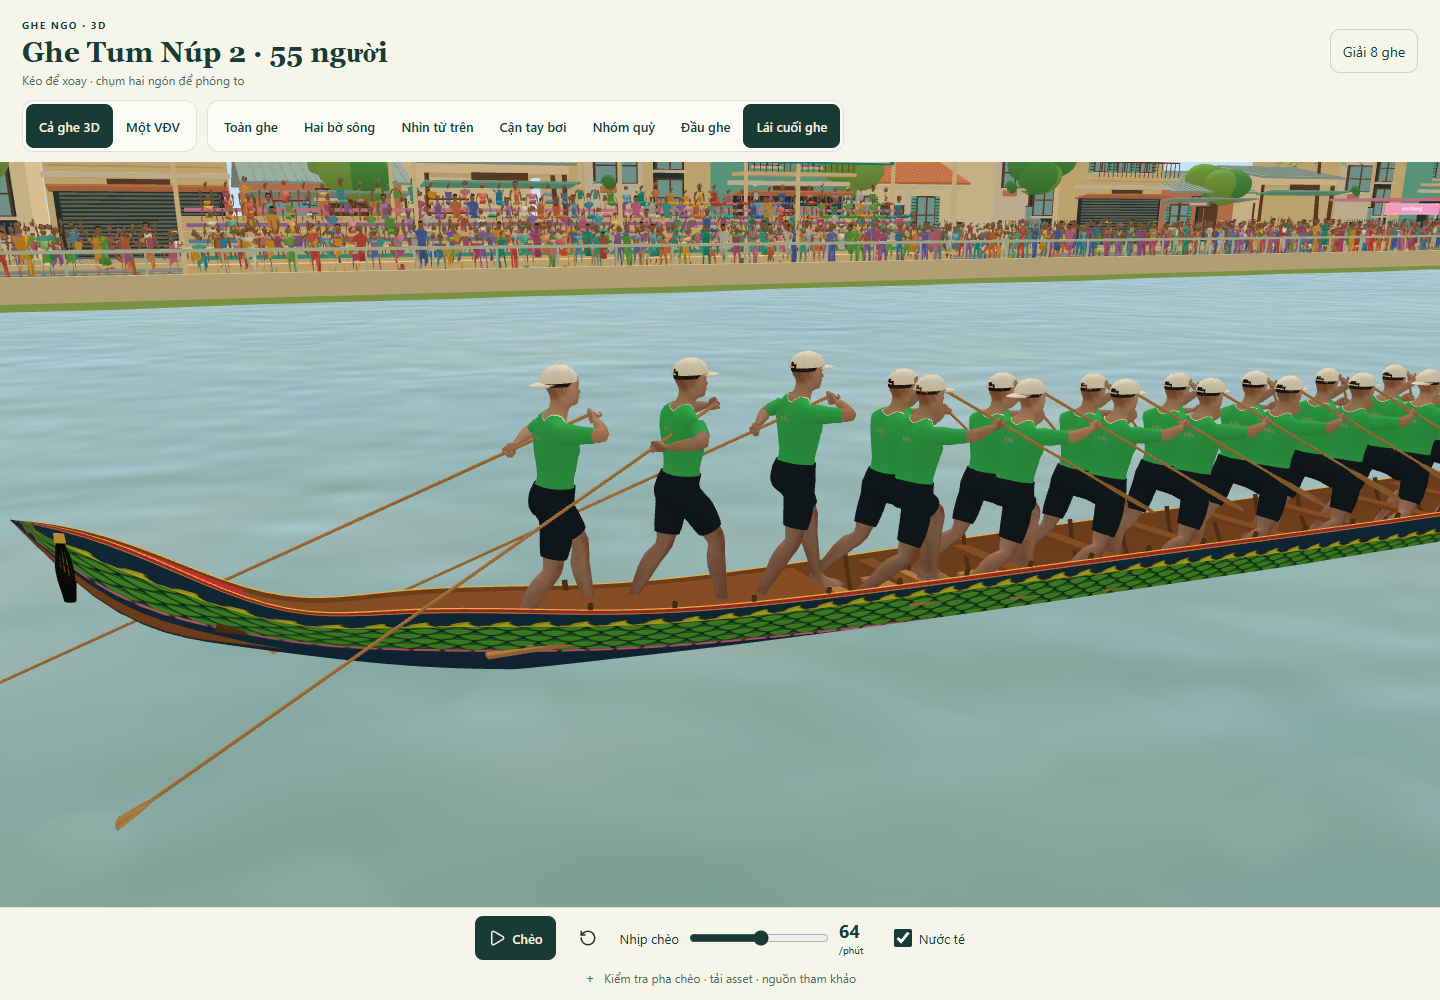
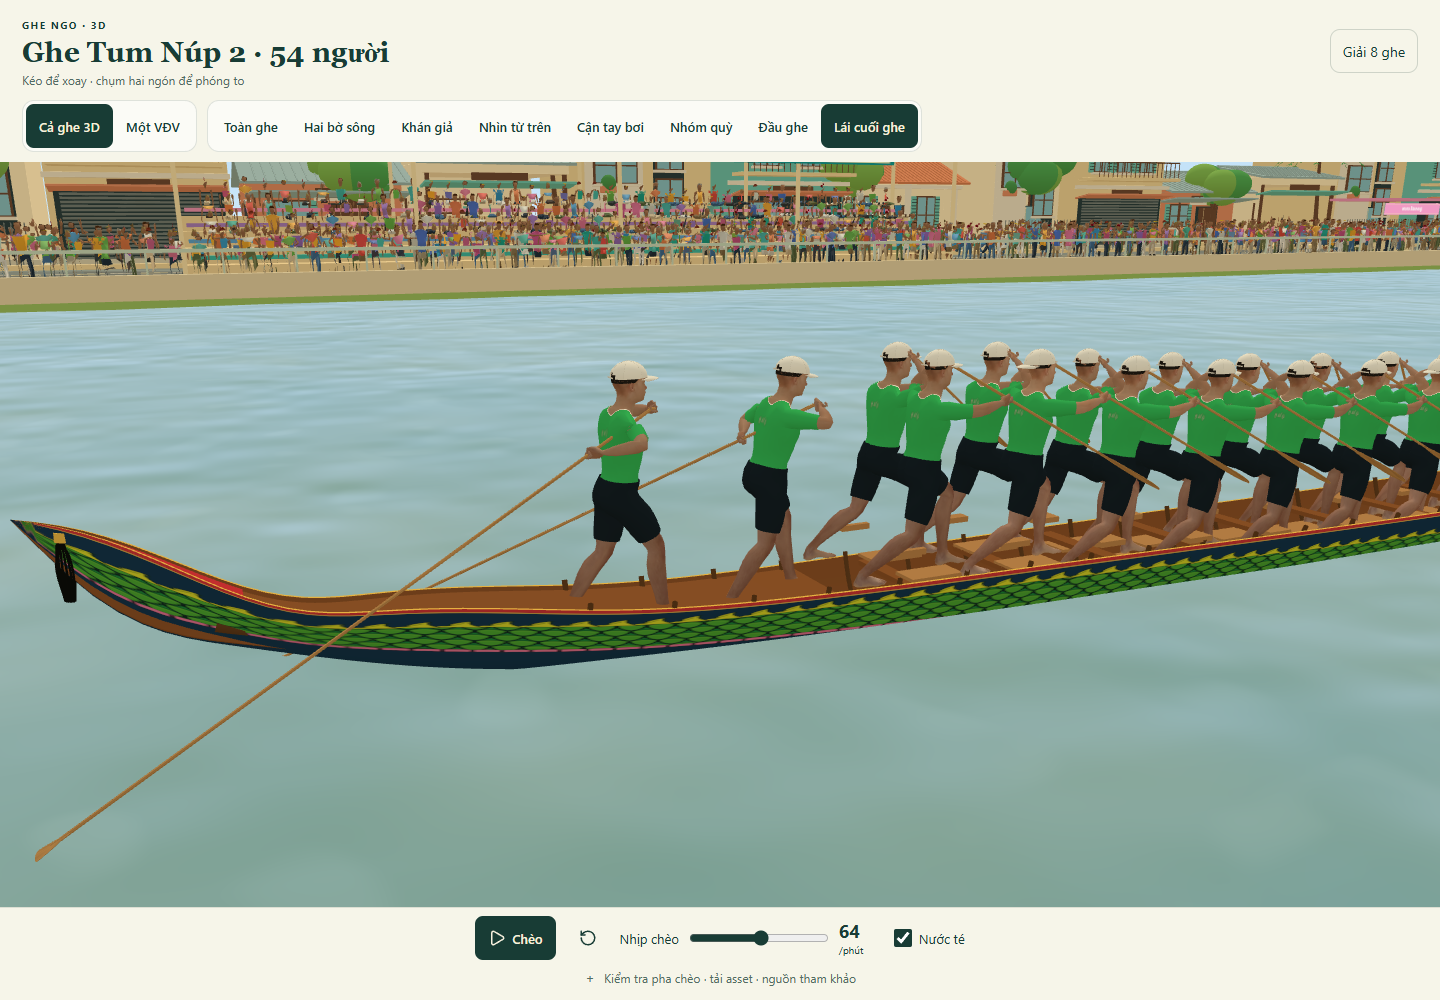
Record public low-thwart crew and outfit verification

diff --git a/docs/asset-workflow.md b/docs/asset-workflow.md
@@ -263,3 +263,15 @@ bright tints; eight independent lower-garment colours and four shoe colours repl
 the former single full-body tint. Integer-safe palette lookup avoids noisy colour
 switches at fragment interpolation boundaries. Original NPC meshes and motion
 palettes are preserved. The **Khán giả** view inspects these garments directly.
+
+
+Public verification for this revision passed on source `789cc79`, Pages commit
+`dba44b67f1887c48321e84d09446f6868b4685ac`, Actions run `39021620087`.
+The actual public renderer passed the crew-layout assertions, 96-phase GLB
+agreement, mode remounts, animated crowd and three tablet viewport checks with
+no browser errors. Seventeen public asset files match the local bytes. Local
+cup QA completed all three rounds and the renderer disposal check released all
+tracked GPU geometry and textures. Physical tablet performance remains untested.
+Evidence: `docs/qa/athlete-master/public-boat/check.json`, `asset-hashes.json`,
+`deployment.json`, plus the local `boat/floor-slices.json` and steering contact
+sheet. The 40-sample sliced/full hull-ray comparison measured zero drift.
